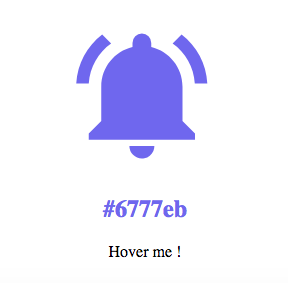
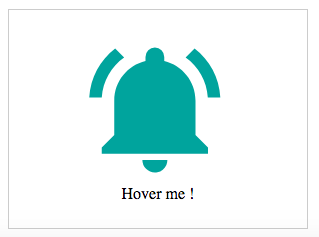
edit doc

Changed region(s): [[0.25, 0.1181, 0.7188, 0.9156], [0.0312, 0.0295, 0.9688, 0.9747], [0.0, 0.0591, 0.0312, 0.9451]]

diff --git a/README.md b/README.md
@@ -108,13 +108,11 @@ export default {
 <template>
   <div>
     <svg-filler path="static/icon/bell-ring.svg"
-      style="cursor: pointer;"
+      hover-color="#000"
       :fill="svgBell.fill"
       :width="svgBell.width"
-      :height="svgBell.height"
-      @mouseover.native="svgBell.fill = randomColor()"/>
-    <h2 :style="{ 'color': svgBell.fill }">{{ svgBell.fill }}</h2>
-    <span>Hover me !</span>
+      :height="svgBell.height"/>
+    <div>Hover me !</div>
   </div>
 </template>
 
@@ -132,11 +130,6 @@ export default {
       }
     }
   },
-  methods: {
-    randomColor () {
-      return `#${(Math.random()*0xFFFFFF<<0).toString(16)}`
-    }
-  },
   components: {
     SvgFiller
   }
@@ -152,7 +145,8 @@ export default {
 | path         | String        | -        | Path of your svg file in `/static`  |
 | width       | String        | 24px     | Width |
 | height      | String        | 24px     | Height |
-| fill        | String        | #000     | Svg color |
+| fill        | String        | #000     | Fill color |
+| hover-color        | String        | -     | Fill color when hover on icon |
 
 ## Events
 | Name          | Type          | Description  |
